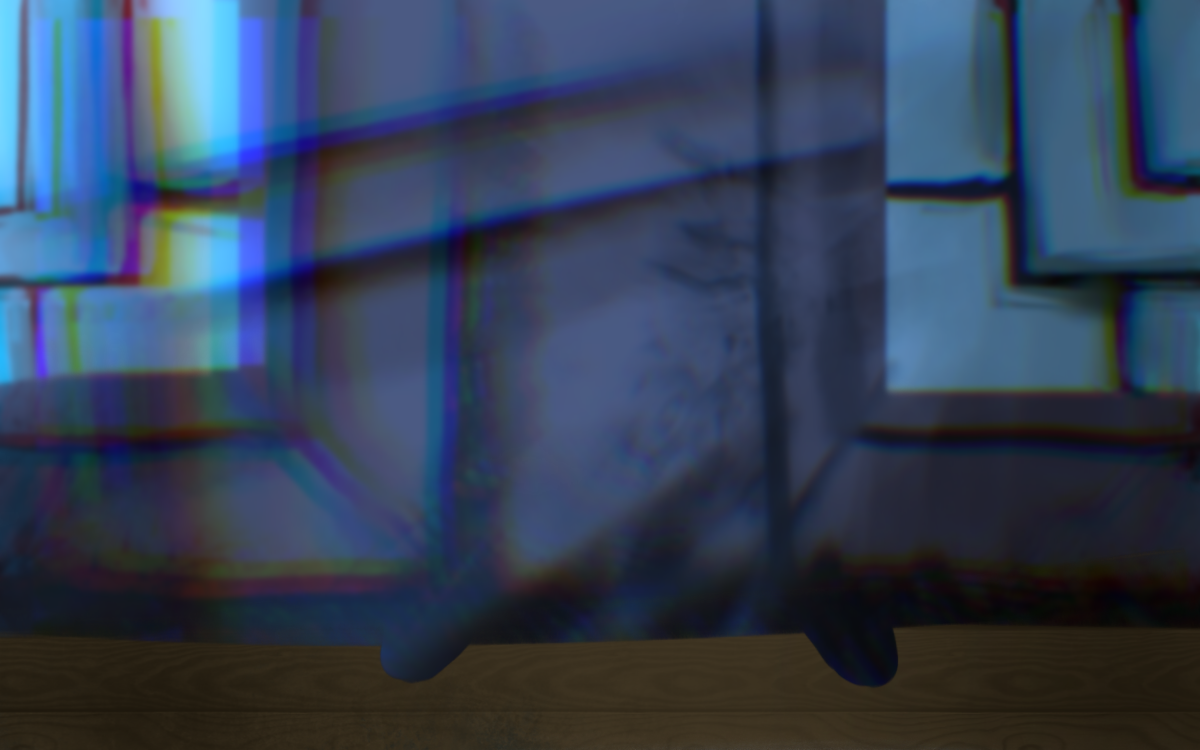
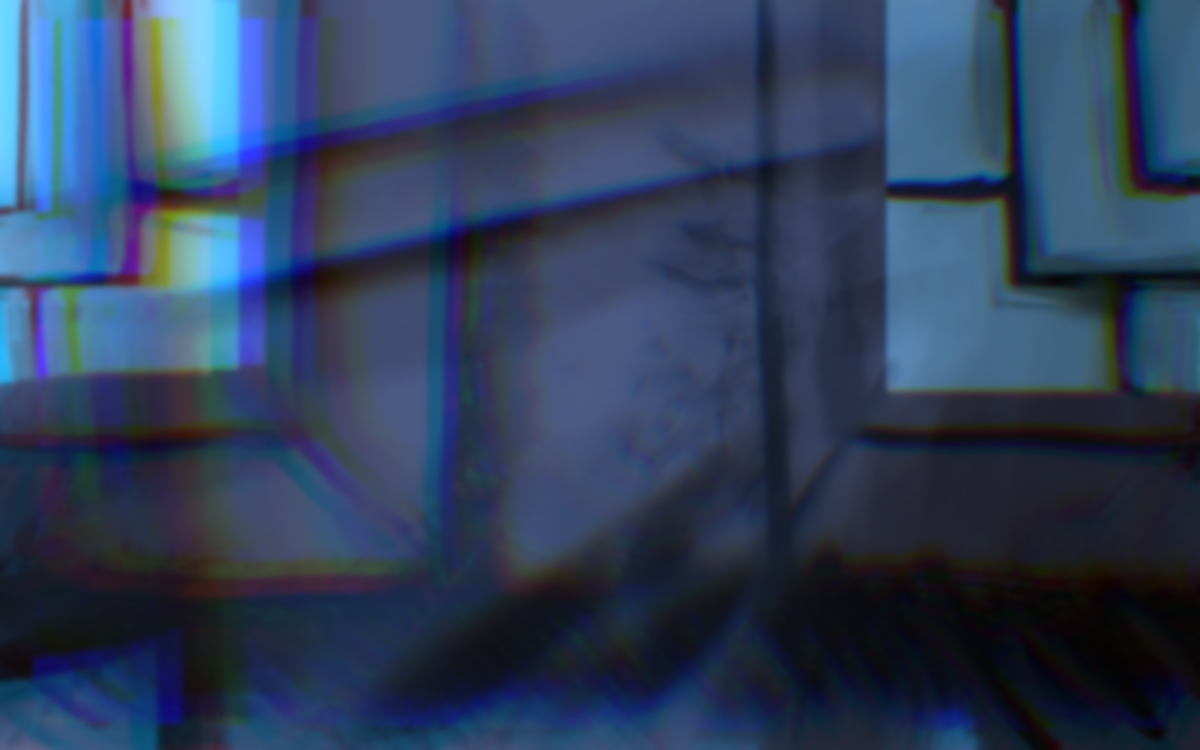
Game On! styling and Final Comp Sketch

Changed region(s): [[0.0, 0.828, 1.0, 1.0]]

diff --git a/studio3/styles.css b/studio3/styles.css
@@ -1,19 +1,38 @@
 body {
-    font-family: Arial;
+    font-family: "lores-9-narrow", sans-serif;
     color: white;
     line-height: 1.5em;
     background-image: url(images/background.png);
     background-size:cover;
     background-repeat: no-repeat;
-    height: 100vh;
+    height: 95vh;
+    overflow:hidden;
 }
 
 button { 
     padding: 10px;
 }
 
+button:hover {
+    background-color: #48abe0;
+    color:white;
+}
+
 div {
     padding: 5px;
+}
+
+#announcement {
+    font-family: "macula-line";
+    animation: float 5s ease-in-out infinite;
+    margin: 1.5em 0 0 0;
+}
+#subannouncement {
+    position: absolute;
+    left: 50vw;
+    width: 25vw;
+    text-align: center; 
+    transform: translate(-50%, -50%);
 }
 
 #gamecontrol, h1, h2 {
@@ -24,18 +43,17 @@ h1{
     animation: float 5s ease-in-out infinite;
     text-align: center;
     text-transform: uppercase;
-    font-weight: bold;
     letter-spacing: 3px;
     width: 60vw;
     margin: 4vh auto;
-    
+    font-family: "macula-line";
     font-size: 5vh;
     color: black;
     background-color: white;
     padding: 50px;
     border-radius: 11px;
     position: relative;
-    box-shadow: 20px 20px blue;
+    box-shadow: 20px 20px #324ea8;
 }
 
 h1:before {
@@ -78,26 +96,40 @@ h1:before {
 
 #overlay{
     position: absolute;
-    background-color: white;
+    background-color: rgba(0, 0, 0, 0.6);
     height: 100vh;
     width: 100vw;
-    display: none;
     position: absolute;
-    height: 100vh;
-    width: 100vw;
-
+    top: 0;
+    left: 0;
+    z-index: 100;
 }
 #gameinfo{
     background-color: white;
-    display: none;
     color: black;
+    width: 80vw;
+    padding: 3em;
+    border-radius: 1em;
+    margin: auto;
+    transform: translate(0, 50%);
+    text-align: center;
+}
 
+#gameinfo p {
+    text-align: left;
+}
+
+.open {
+    display: block;
+}
+.closed {
+    display: none
 }
 #openinfo {
     border-radius: 50%;
     border: 1px solid white;
     color: white;
-    background-color: rgba(0, 0, 0, 0);
+    background-color: rgba(255, 255, 255, 0.1);
     width: 30px;
     height: 30px;
     text-align: center;
@@ -106,6 +138,9 @@ h1:before {
     position: absolute;
     top: 10px;
     left: 10px;
+}
+#openinfo:hover {
+    background-color: rgba(255, 255, 255, 0.5);
 }
 
 .activeplayer {
@@ -119,11 +154,18 @@ h1:before {
     opacity: 50%;
 }
 
-.controlquit {
+#gamecontrol {
     position: absolute;
     left: 50vw;
-    bottom: 0;
     transform: translate(-50%, -50%);
+}
+
+.controlstart {
+    bottom: 5%;
+}
+
+.controlquit {
+    bottom: -5%;
 }
 
 img {
@@ -131,11 +173,20 @@ img {
     height: 200px;
 }
 
+#table {
+    position: absolute;
+    width: 100vw;
+    height: 21vh;
+    bottom: 0;
+    z-index: -2;
+}
 
 #yelan {
-width: 50%;
-height:auto;
-position: absolute;
-top: 30vh;
-left: 25%;
+    width: 90vh;
+    height:auto;
+    position: absolute;
+    top: 15vh;
+    left: 50vw;
+    z-index: -1;
+    transform: translate(-50%, 0);
 }

diff --git a/studio3/index.html b/studio3/index.html
@@ -3,22 +3,29 @@
 <head>
     <meta charset="UTF-8">
     <meta name="viewport" content="width=device-width, initial-scale=1.0">
-    <title>Game of Pig</title>
+    <title>Welcome to Yansheng Teahouse</title>
 	<link href="https://cdnjs.cloudflare.com/ajax/libs/normalize/8.0.1/normalize.min.css" rel="stylesheet">
+    <link rel="stylesheet" href="https://use.typekit.net/ygf2fzk.css">
 	<link href="styles.css" rel="stylesheet">
     <script src="script.js" defer></script>
 </head>
 <body>
     <h1>Let's play a game of Pig</h1>
     <button id="openinfo">i</button>
-    <div id="gameinfo">
-        <p>There are two players. The player whose turn it is rolls the dice. The total of the roll is added to the current player's score, unless either die comes up as a "one". If this happens, this player's turn is over, and it is the other player’s turn. After each roll, the current player can either roll again, (assuming a "one" was not rolled) or if the current player feels that luck is running thin, they can pass to the other player. The first player to get 30 points or higher wins.</p> 
-        <p>Oh, and if you roll two "ones" (snake eyes), your current score gets zeroed out. So don’t do that.</p>
+    <div id="overlay" class="closed">
+        <section id="gameinfo">
+            <h2>Game Rules:</h2>
+            <p>There are two players--in this case, one player and a CPU. The player whose turn it is rolls the dice. The total of the roll is added to the current player's score, unless either die comes up as a "one". If this happens, this player's turn is over, and it is the other player’s turn. After each roll, the current player can either roll again, (assuming a "one" was not rolled) or if the current player feels that luck is running thin, they can pass to the other player. The first player to get 30 points or higher wins.</p> 
+            <p>Oh, and if you roll two "ones" (snake eyes), your current score gets zeroed out. So don’t do that.</p>
+            <button id="closeinfo">Got It</button>
+        </section>
     </div>
-
+    
     <img id="yelan" src="images/yelan.png">
+    <img id="table" src="images/table.png">
     <h2 id="announcement"></h2>
-    <div id="gamecontrol">
+    <p id="subannouncement"></p>
+    <div id="gamecontrol" class ="controlstart">
         <button id="startgame">Randomly Pick the First Player, and Start the Game</button>
     </div>
     <section id="scoreboard">

diff --git a/studio3/script.js b/studio3/script.js
@@ -9,16 +9,20 @@
     const cpuScore = document.getElementById('cpuscore');
     const actionArea = document.getElementById('actions');
     const announcement =document.getElementById('announcement')
+    const subAnnouncement =document.getElementById('subannouncement')
     const infoBtn = document.getElementById('openinfo');
+    const closeBtn = document.getElementById('closeinfo');
     const playerArea = document.getElementById('player')
     const cpuArea = document.getElementById('cpu');
 
     const diceRollSound = new Audio('audio/diceRoll.mp3');
     diceRollSound.volume = 0.2;
-    
 
     infoBtn.addEventListener('click', function(){
-        document.querySelector('#gameinfo').style.display= 'block';     
+        document.querySelector('#overlay').className= 'open';     
+    });
+    closeBtn.addEventListener('click', function(){
+        document.querySelector('#overlay').className= 'closed';     
     });
 
     document.addEventListener("keydown", function(event){
@@ -58,6 +62,7 @@
     function setUpTurn(){
         announcement.innerHTML = `<p>Rolling the dice for ${gameData.players[gameData.index]}</p>`;
         
+        subAnnouncement.innerHTML="";
 
         if (gameData.index == 0){
         playerArea.className='activeplayer';
@@ -98,7 +103,7 @@
         gameData.rollSum = gameData.roll1 + gameData.roll2;
 
         if (gameData.rollSum == 2){
-            announcement.innerHTML += `<p>Oh snap! ${gameData.players[gameData.index]} rolled Snake Eyes!</p>`;
+            subAnnouncement.innerHTML = `<p>Oh snap! ${gameData.players[gameData.index]} rolled Snake Eyes!</p>`;
             gameData.score[gameData.index] = 0;
             gameData.index ? (gameData.index = 0) : (gameData.index = 1);
             setTimeout(setUpTurn, 2000);
@@ -106,7 +111,7 @@
         }
         else if (gameData.roll1 == 1 || gameData.roll2 == 1){
             gameData.index ? (gameData.index = 0) : (gameData.index = 1);
-            announcement.innerHTML += `Sorry, one of your rolls was a 1. Switching to ${gameData.players[gameData.index]}`;
+            subAnnouncement.innerHTML = `Sorry, one of your rolls was a 1. Switching to ${gameData.players[gameData.index]}`;
             setTimeout(setUpTurn, 2000);
         }
 

diff --git a/index.html b/index.html
@@ -36,8 +36,8 @@
         <article id="rd">
             <h2>R&D</h2>
             <ul>
-                <li><a href="">project brief</a></li>
-                <li><a href="">design comp</a></li>
+                <li><a href="final/brief.html">project brief</a></li>
+                <li><a href="final/images/comp.png">design comp</a></li>
                 <li><a href="">version 1</a></li>
                 <li><a href="">version 2 (user test)</a></li>
                 <li><a href="">user test results</a></li>
